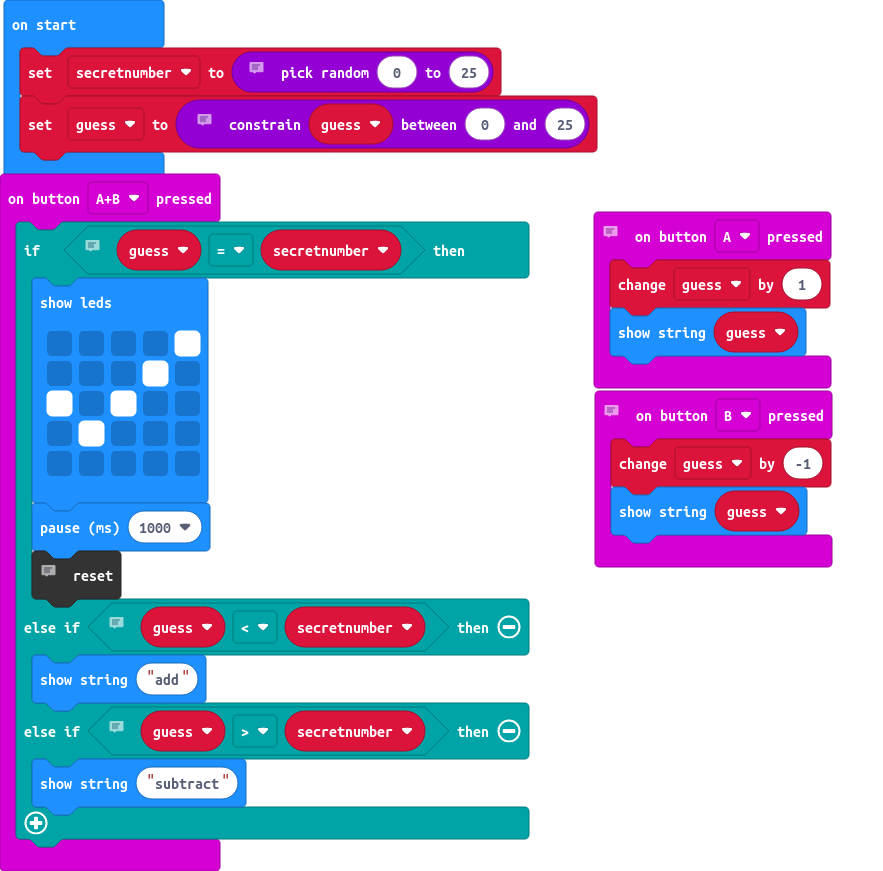
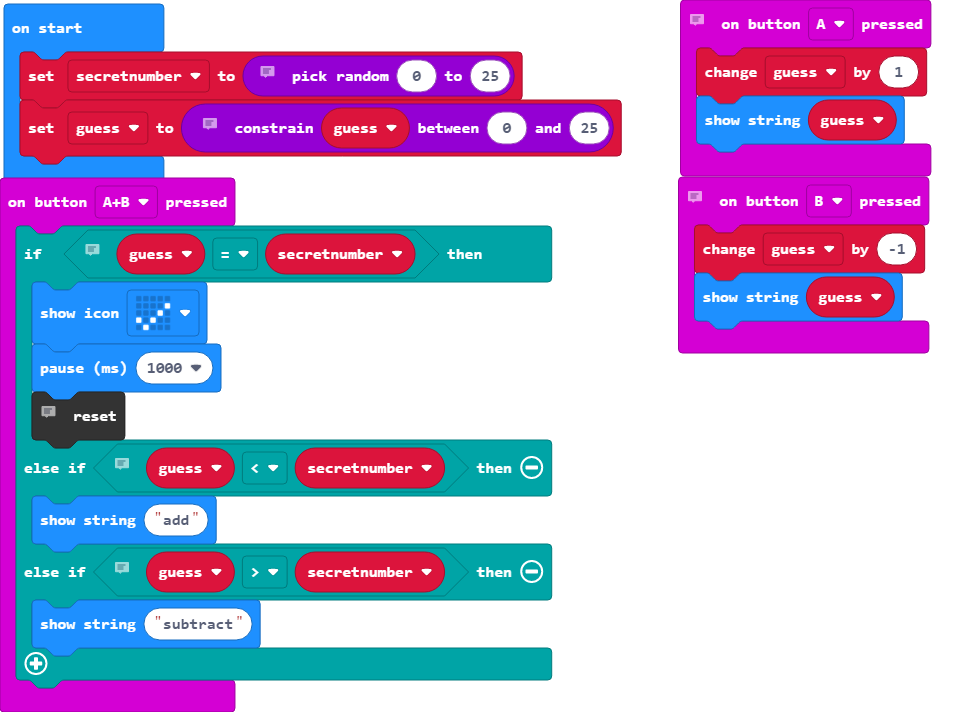
Update main.blocks, main.ts

diff --git a/main.ts b/main.ts
@@ -8,13 +8,7 @@ input.onButtonPressed(Button.AB, function () {
     // if the guessed number is below the secret number the word "add' is displayed
     // if the guessed number is above the secret number the word "subtract' is displayed
     if (guess == secretnumber) {
-        basic.showLeds(`
-            . . . . #
-            . . . # .
-            # . # . .
-            . # . . .
-            . . . . .
-            `)
+        basic.showIcon(IconNames.Yes)
         basic.pause(1000)
         // resets the entire program when the secret number is guessed
         control.reset()
@@ -31,7 +25,7 @@ input.onButtonPressed(Button.B, function () {
 })
 let guess = 0
 let secretnumber = 0
-// sets the secret number to a random number between 0 and 25
+// sets the secret number to pick a random number between 0 and 25
 secretnumber = randint(0, 25)
-// stops guessed number from passing 0 or 20
+// stops guessed number from passing 0 or 25
 guess = Math.constrain(guess, 0, 25)
